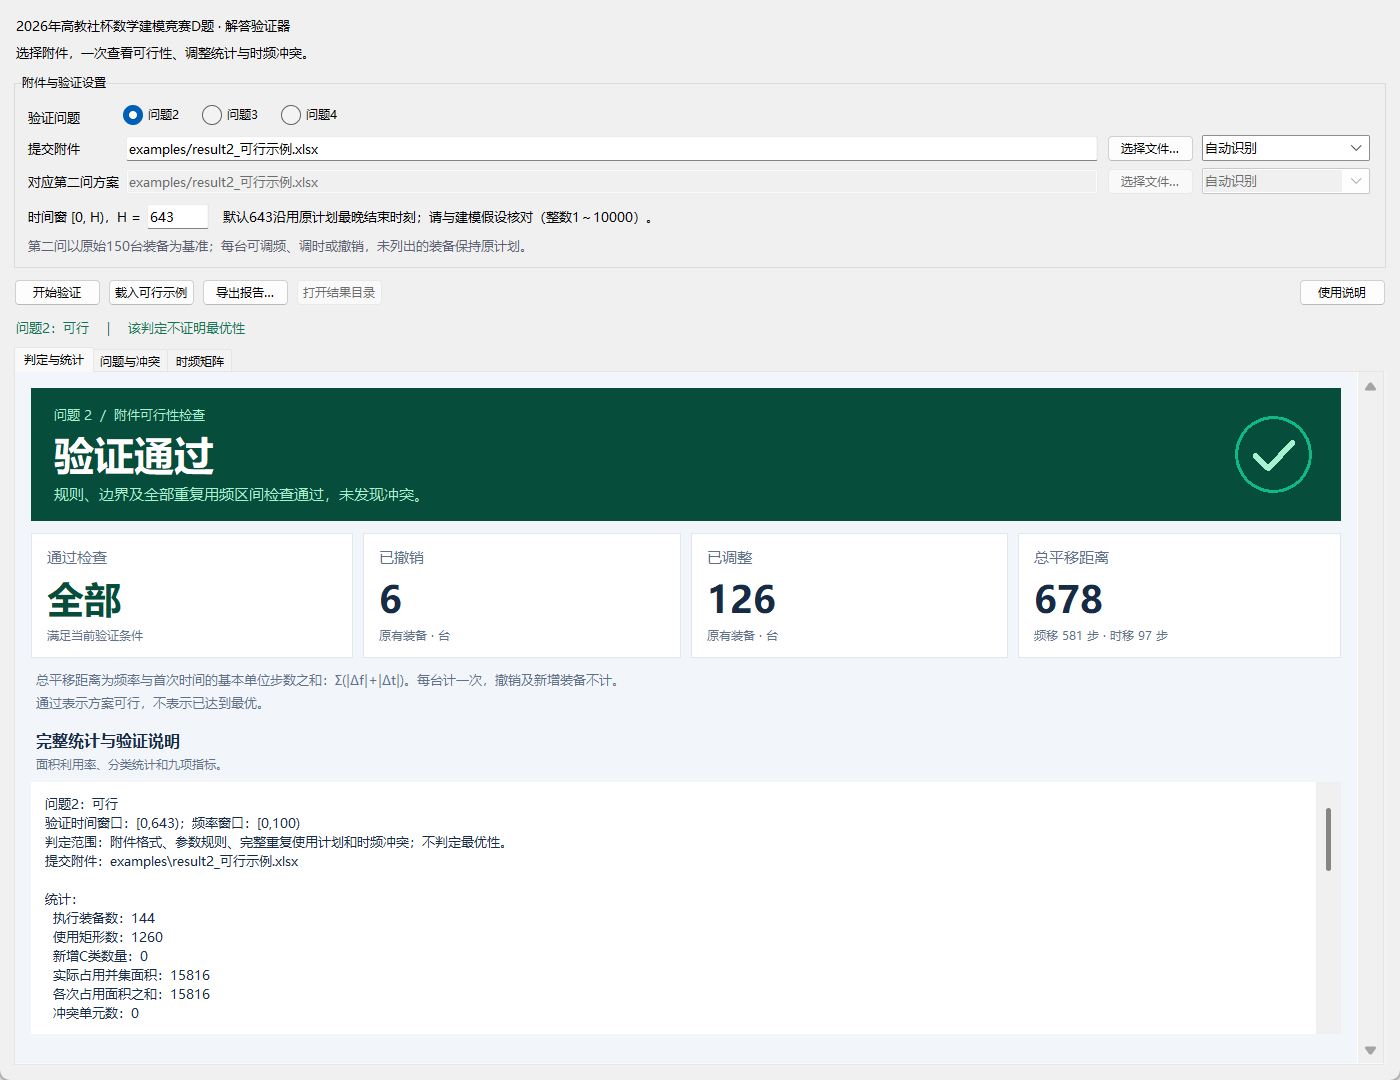
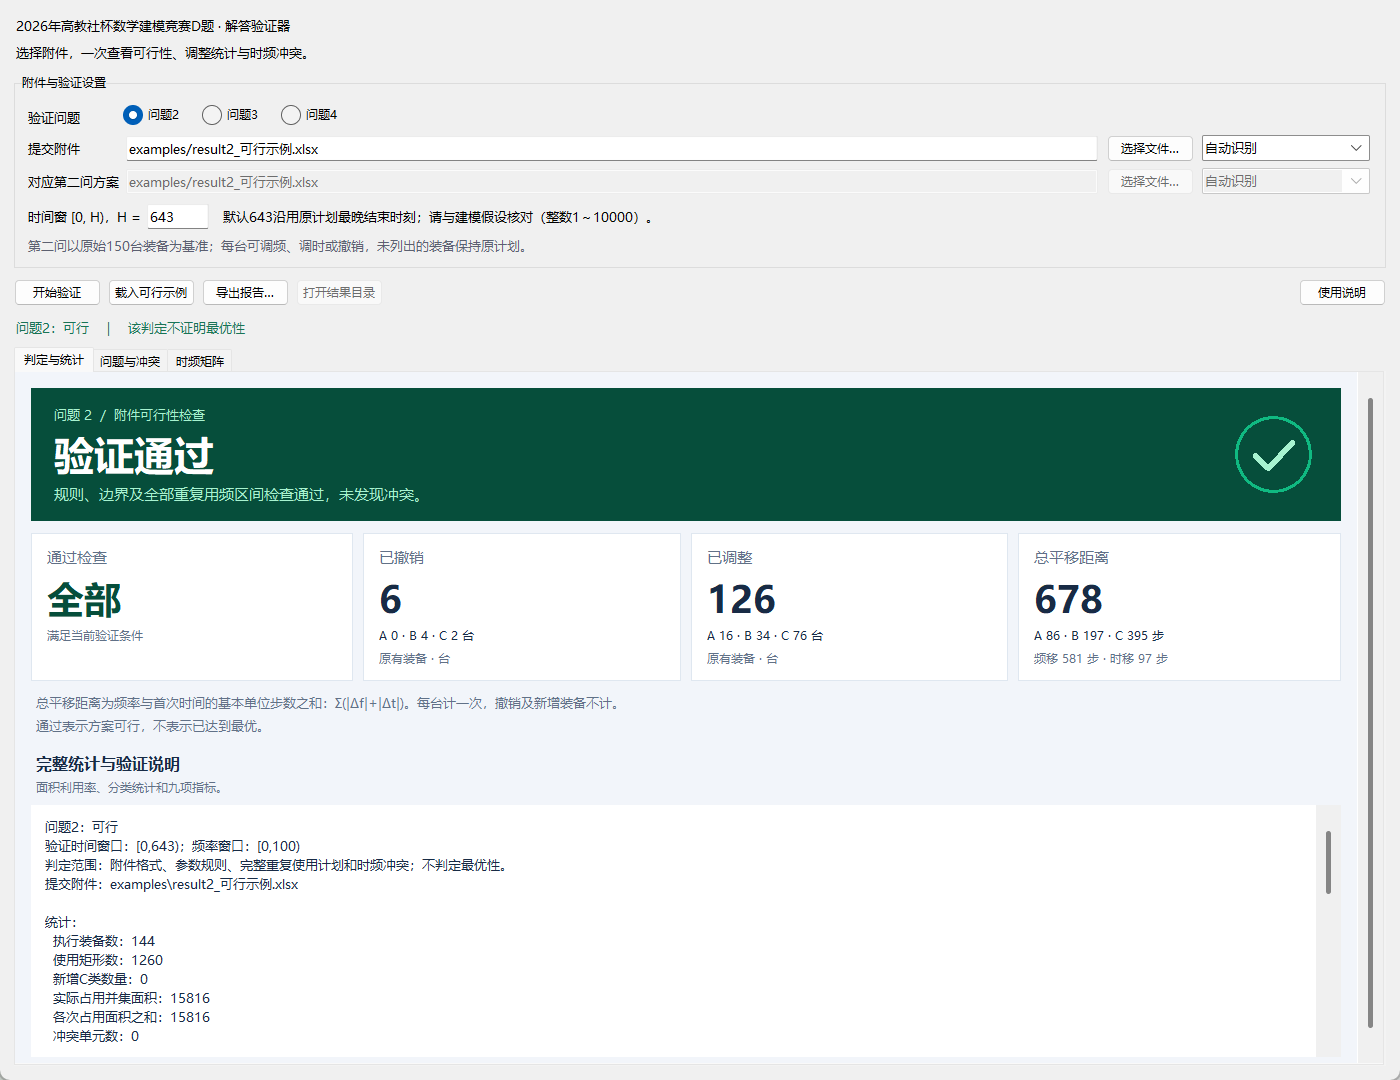
在撤销、调整和平移结果卡下增加 A、B、C 分类统计

diff --git a/result_view.py b/result_view.py
@@ -5,9 +5,14 @@ from __future__ import annotations
 def _complete_originals(plans: list[dict]) -> bool:
     expected = {f"{cls}{n:03d}" for cls, count in (("A", 20), ("B", 40), ("C", 90))
                 for n in range(1, count + 1)}
-    required = {"id", "canceled", "df", "dt", "dg"}
+    required = {"id", "cls", "canceled", "df", "dt", "dg"}
     return (len(plans) == 150 and {p.get("id") for p in plans} == expected
-            and all(required <= p.keys() for p in plans))
+            and all(required <= p.keys() and p["cls"] in {"A", "B", "C"} for p in plans))
+
+
+def _breakdown(by_category: dict, key: str, unit: str) -> str:
+    return " · ".join(f"{cls} {values[key] if values[key] is not None else '—'}"
+                      for cls, values in by_category.items()) + " " + unit
 
 
 def build_result_view(result: dict) -> dict:
@@ -23,7 +28,9 @@ def build_result_view(result: dict) -> dict:
 
     view = dict(status=status, cancelled=None, adjusted=None, translation_distance=None,
                 frequency_distance=None, time_distance=None, gap_distance=None,
-                total_amplitude=None, added_count=None, notes=[])
+                total_amplitude=None, added_count=None, notes=[],
+                by_category={cls: dict(cancelled=None, adjusted=None, translation_distance=None)
+                             for cls in "ABC"})
     if complete:
         active = [p for p in old if not p["canceled"]]
         frequency = sum(abs(p["df"]) for p in active)
@@ -34,6 +41,13 @@ def build_result_view(result: dict) -> dict:
                     translation_distance=frequency + time, frequency_distance=frequency,
                     time_distance=time, gap_distance=gap, total_amplitude=frequency + time + gap,
                     added_count=sum(bool(p.get("is_new")) and not p.get("canceled") for p in plans))
+        for cls in "ABC":
+            category_old = [p for p in old if p["cls"] == cls]
+            category_active = [p for p in category_old if not p["canceled"]]
+            view["by_category"][cls] = dict(
+                cancelled=sum(bool(p["canceled"]) for p in category_old),
+                adjusted=sum(any(p[k] for k in ("df", "dt", "dg")) for p in category_active),
+                translation_distance=sum(abs(p["df"]) + abs(p["dt"]) for p in category_active))
 
     if status == "feasible":
         view.update(title="验证通过", message="规则、边界及全部重复用频区间检查通过，未发现冲突。")
@@ -55,9 +69,12 @@ def build_result_view(result: dict) -> dict:
                      if complete else "检查完成后统计")
     view["metrics"] = [
         dict(label="通过检查", value=check_value, hint=check_hint),
-        dict(label="已撤销", value=str(view["cancelled"]) if complete else "—", hint=scope + " · 台"),
-        dict(label="已调整", value=str(view["adjusted"]) if complete else "—", hint=scope + " · 台"),
-        dict(label="总平移距离", value=str(view["translation_distance"]) if complete else "—", hint=distance_hint),
+        dict(label="已撤销", value=str(view["cancelled"]) if complete else "—", hint=scope + " · 台",
+             breakdown=_breakdown(view["by_category"], "cancelled", "台")),
+        dict(label="已调整", value=str(view["adjusted"]) if complete else "—", hint=scope + " · 台",
+             breakdown=_breakdown(view["by_category"], "adjusted", "台")),
+        dict(label="总平移距离", value=str(view["translation_distance"]) if complete else "—", hint=distance_hint,
+             breakdown=_breakdown(view["by_category"], "translation_distance", "步")),
     ]
     if result.get("question") == 3:
         view["notes"].append("撤销、调整和平移统计均属于第二问基础方案；新增装备不计入这些指标。")

diff --git a/tests/test_result_view.py b/tests/test_result_view.py
@@ -25,6 +25,13 @@ class ResultViewTests(unittest.TestCase):
         self.assertEqual([m["value"] for m in view["metrics"]], ["全部", "6", "126", "678"])
         self.assertEqual((view["frequency_distance"], view["time_distance"]), (581, 97))
         self.assertEqual(view["total_amplitude"], 678)
+        self.assertEqual(view["by_category"], {
+            "A": dict(cancelled=0, adjusted=16, translation_distance=86),
+            "B": dict(cancelled=4, adjusted=34, translation_distance=197),
+            "C": dict(cancelled=2, adjusted=76, translation_distance=395)})
+        self.assertEqual([m["breakdown"] for m in view["metrics"][1:]],
+                         ["A 0 · B 4 · C 2 台", "A 16 · B 34 · C 76 台", "A 86 · B 197 · C 395 步"])
+        self.assertNotIn("breakdown", view["metrics"][0])
 
     def test_question_three_metrics_belong_to_base(self):
         view = build_result_view(self.results[3])
@@ -32,6 +39,7 @@ class ResultViewTests(unittest.TestCase):
         self.assertEqual(view["added_count"], 136)
         self.assertIn("第二问基础方案", view["metrics"][1]["hint"])
         self.assertTrue(any("新增 136 台" in note for note in view["notes"]))
+        self.assertEqual(view["by_category"], build_result_view(self.results[2])["by_category"])
 
     def test_question_four_separates_gap_from_translation(self):
         view = build_result_view(self.results[4])
@@ -40,6 +48,12 @@ class ResultViewTests(unittest.TestCase):
         self.assertEqual(view["translation_distance"] + view["gap_distance"], view["total_amplitude"])
         self.assertEqual(view["total_amplitude"], self.results[4]["summary"]["objective_tuple"][6])
         self.assertTrue(any("41 台间隔调整" in note for note in view["notes"]))
+        self.assertEqual(view["by_category"], {
+            "A": dict(cancelled=0, adjusted=18, translation_distance=84),
+            "B": dict(cancelled=2, adjusted=34, translation_distance=199),
+            "C": dict(cancelled=2, adjusted=88, translation_distance=254)})
+        for key in ("cancelled", "adjusted", "translation_distance"):
+            self.assertEqual(sum(category[key] for category in view["by_category"].values()), view[key])
 
     def test_parse_failure_does_not_display_partial_zero(self):
         result = validate_submission(2, APP / "examples/result2_重复编号示例.xlsx")
@@ -49,6 +63,9 @@ class ResultViewTests(unittest.TestCase):
         self.assertEqual([m["value"] for m in view["metrics"]], ["未完成", "—", "—", "—"])
         for key in ("cancelled", "adjusted", "translation_distance", "total_amplitude", "added_count"):
             self.assertIsNone(view[key])
+        self.assertTrue(all(value is None for category in view["by_category"].values() for value in category.values()))
+        self.assertEqual([m["breakdown"] for m in view["metrics"][1:]],
+                         ["A — · B — · C — 台", "A — · B — · C — 台", "A — · B — · C — 步"])
 
     def test_incomplete_analysis_or_missing_plan_hides_metrics(self):
         for mode in ("analysis", "plans"):
@@ -84,6 +101,7 @@ class ResultViewTests(unittest.TestCase):
         self.assertEqual(view["translation_distance"], 678)
         self.assertEqual(view["gap_distance"], 0)
         self.assertEqual(view["adjusted"], 126)
+        self.assertEqual(view["by_category"], build_result_view(self.results[2])["by_category"])
 
     def test_all_canceled_is_a_known_zero_not_missing(self):
         result = deepcopy(self.results[2])

diff --git a/result_panel.py b/result_panel.py
@@ -122,6 +122,7 @@ class ResultPanel(ttk.Frame):
         metrics = tk.Frame(self.body, bg=self.BACKGROUND)
         metrics.pack(fill='x', padx=16)
         self.metric_labels = []
+        self.metric_breakdown_labels = []
         for index, metric in enumerate(view['metrics']):
             metrics.columnconfigure(index, weight=1, uniform='metric')
             card = tk.Frame(metrics, bg='white', highlightbackground='#dfe7f0', highlightthickness=1,
@@ -132,8 +133,16 @@ class ResultPanel(ttk.Frame):
             value = self._label(card, metric['value'], size=28, color=color, bold=True,
                                 anchor='w', pady=(4, 2))
             self.metric_labels.append(value)
+            breakdown = None
+            if metric.get('breakdown'):
+                breakdown = self._label(card, metric['breakdown'], size=9, color=self.INK,
+                                        fill='x', pady=(0, 4))
+            self.metric_breakdown_labels.append(breakdown)
             hint = self._label(card, metric['hint'], size=9, color=self.MUTED, fill='x')
-            card.bind('<Configure>', lambda event, label=hint: label.configure(wraplength=max(100, event.width - 30)))
+            def resize_card(event, labels=tuple(label for label in (breakdown, hint) if label is not None)):
+                for label in labels:
+                    label.configure(wraplength=max(100, event.width - 30))
+            card.bind('<Configure>', resize_card)
         notes = tk.Frame(self.body, bg=self.BACKGROUND)
         notes.pack(fill='x', padx=20, pady=(10, 12))
         for note in view['notes']:

diff --git a/app.py b/app.py
@@ -20,7 +20,7 @@ AUTO = '自动识别'
 class ValidatorApp:
     def __init__(self, root):
         self.root = root
-        root.title('2026年高教社杯数学建模竞赛D题 · 解答验证器 v1.2.0')
+        root.title('2026年高教社杯数学建模竞赛D题 · 解答验证器 v1.2.1')
         root.geometry('1210x870')
         root.minsize(940, 690)
         style = ttk.Style(root)

diff --git a/README.md b/README.md
@@ -25,7 +25,9 @@ python -m pip install -r requirements.txt
 3. 先看“判定与统计”：绿色表示验证通过，红色表示验证失败；下方直接显示检查状态、已撤销数、已调整数和总平移距离。
 4. 换成要检查的提交附件后，按同样的步骤验证；需要保存时点击 **导出报告**。
 
-![第二问示例验证通过：撤销6台、调整126台、总平移678步](docs/images/05-pass-dashboard.png)
+“已撤销”“已调整”“总平移距离”下面的小字分别列出 A、B、C 类的分项，便于对照总数。前两项以台计，平移距离以步计。
+
+![第二问示例验证通过：撤销6台、调整126台、总平移678步，并显示ABC分类统计](docs/images/05-pass-dashboard.png)
 
 验证失败时，这一页会列出冲突双方的装备编号、各自第几次使用，以及相交的时间和频段。点击 **定位到矩阵** 就能查看冲突位置，全部记录在“问题与冲突”页。橙色的“验证未完成”表示文件还没有完整检查完，请先按提示处理输入问题。
 
